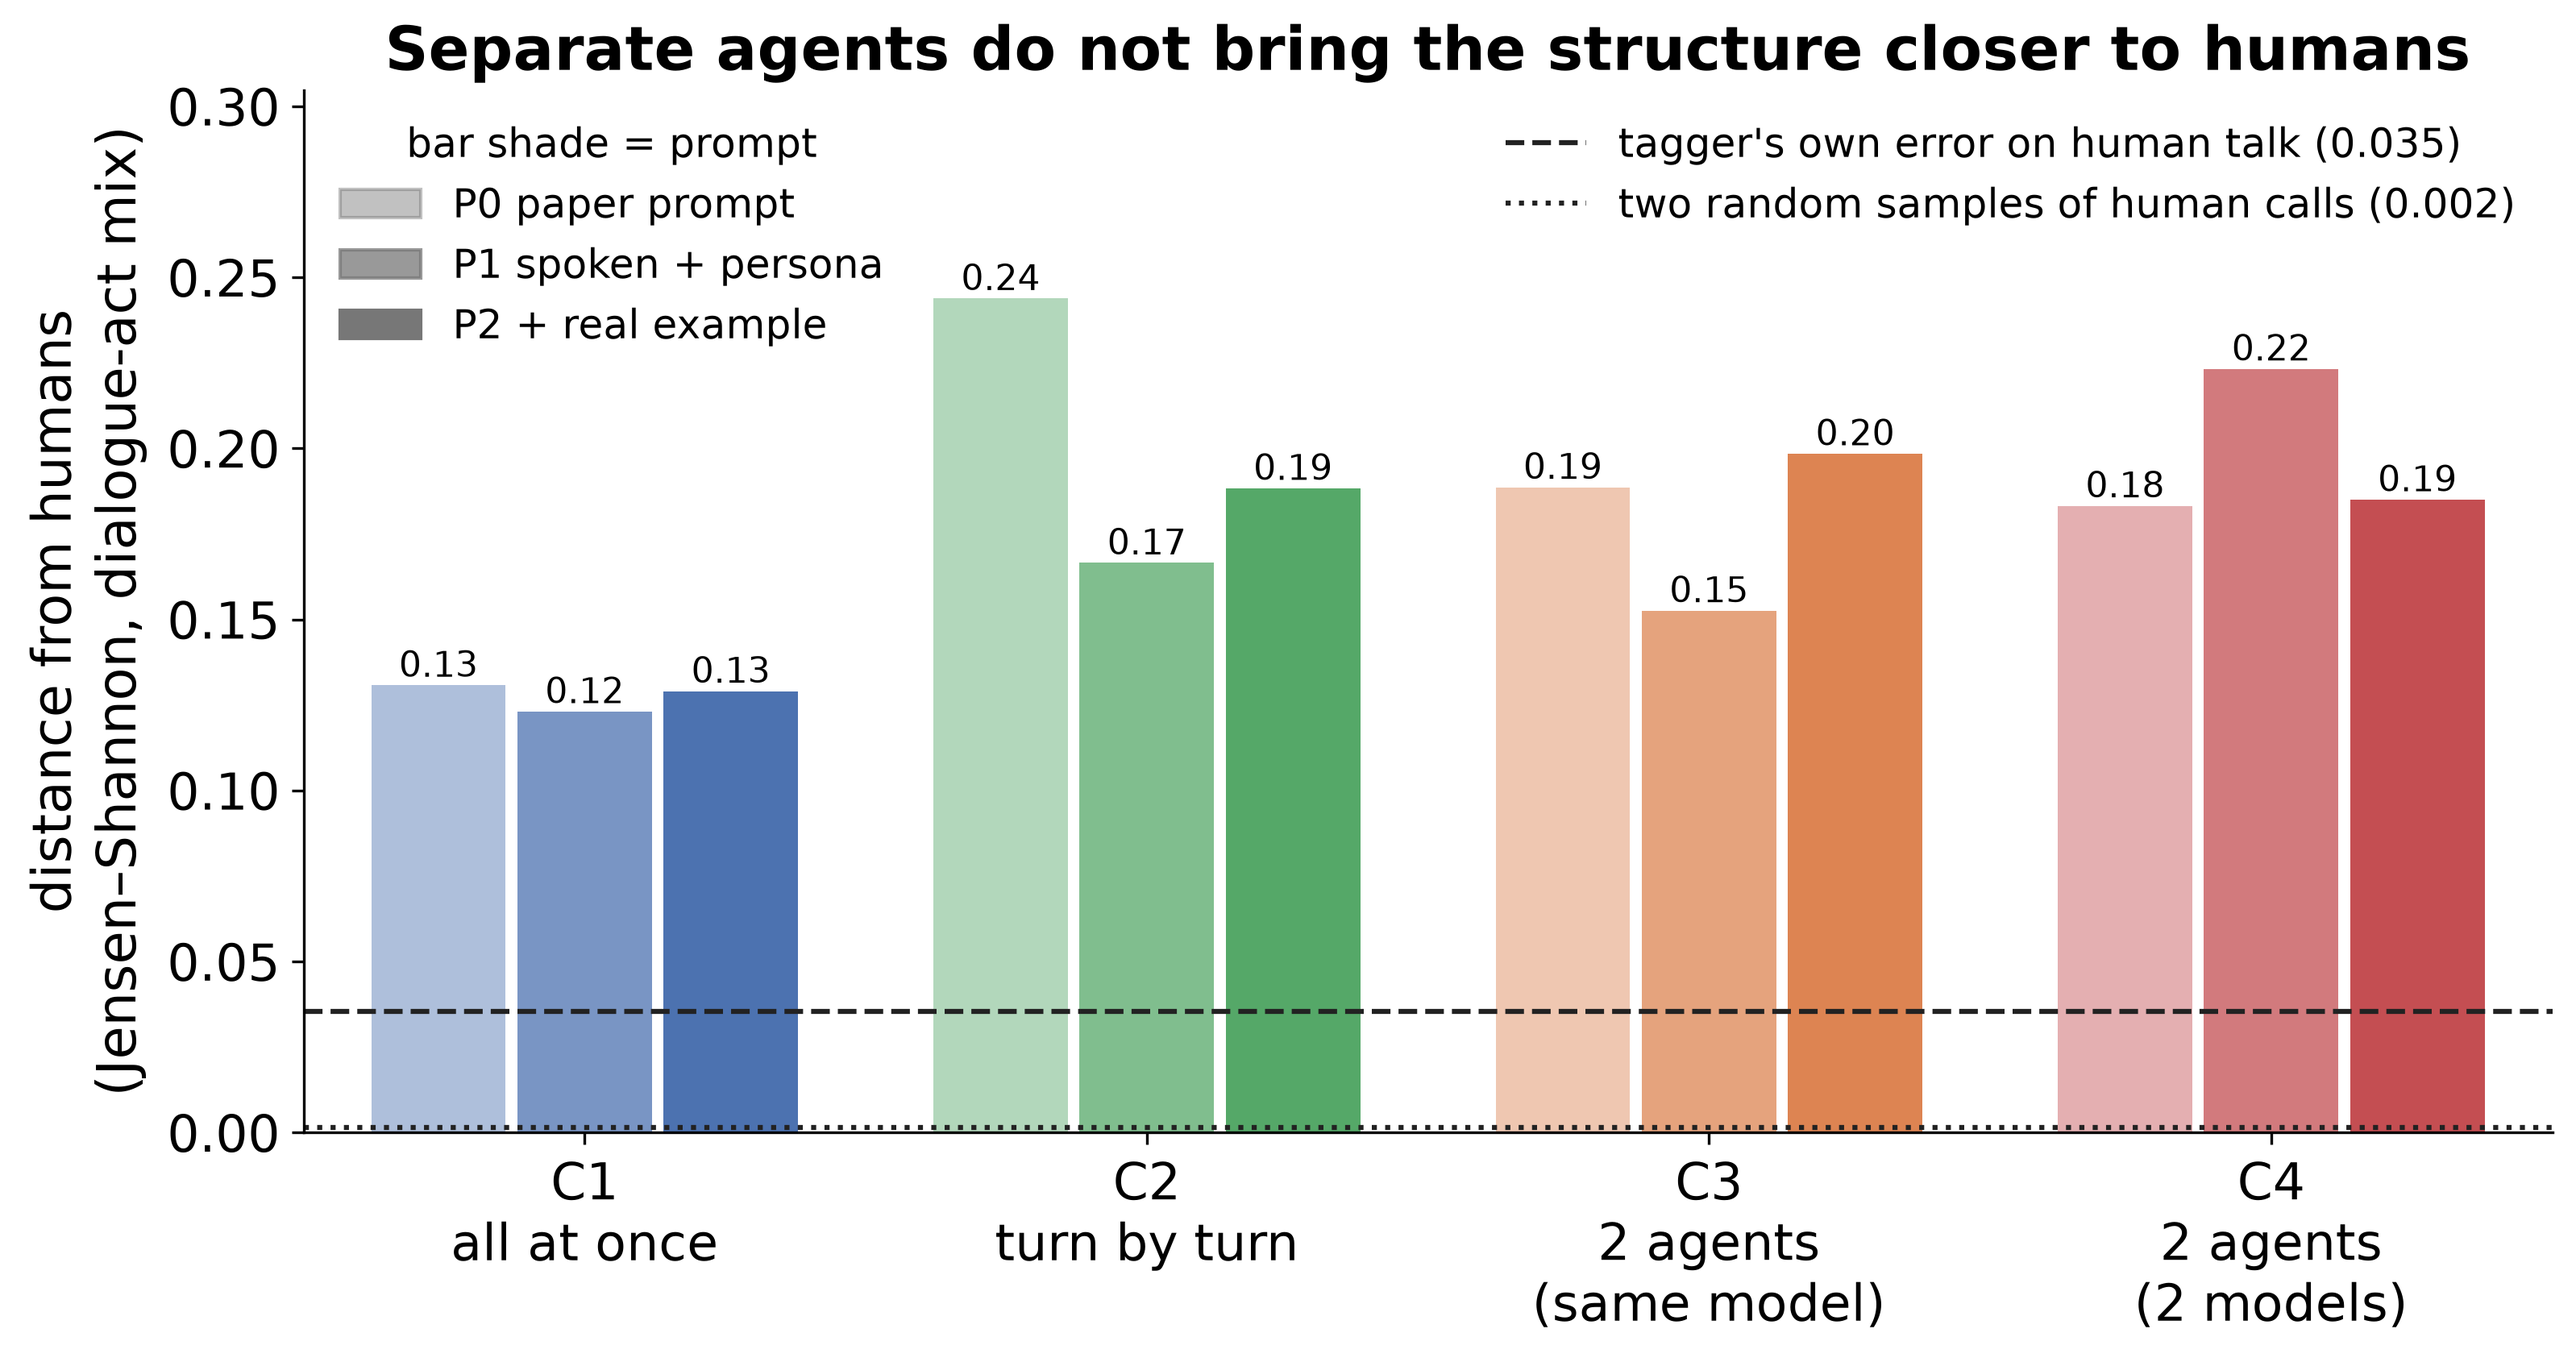
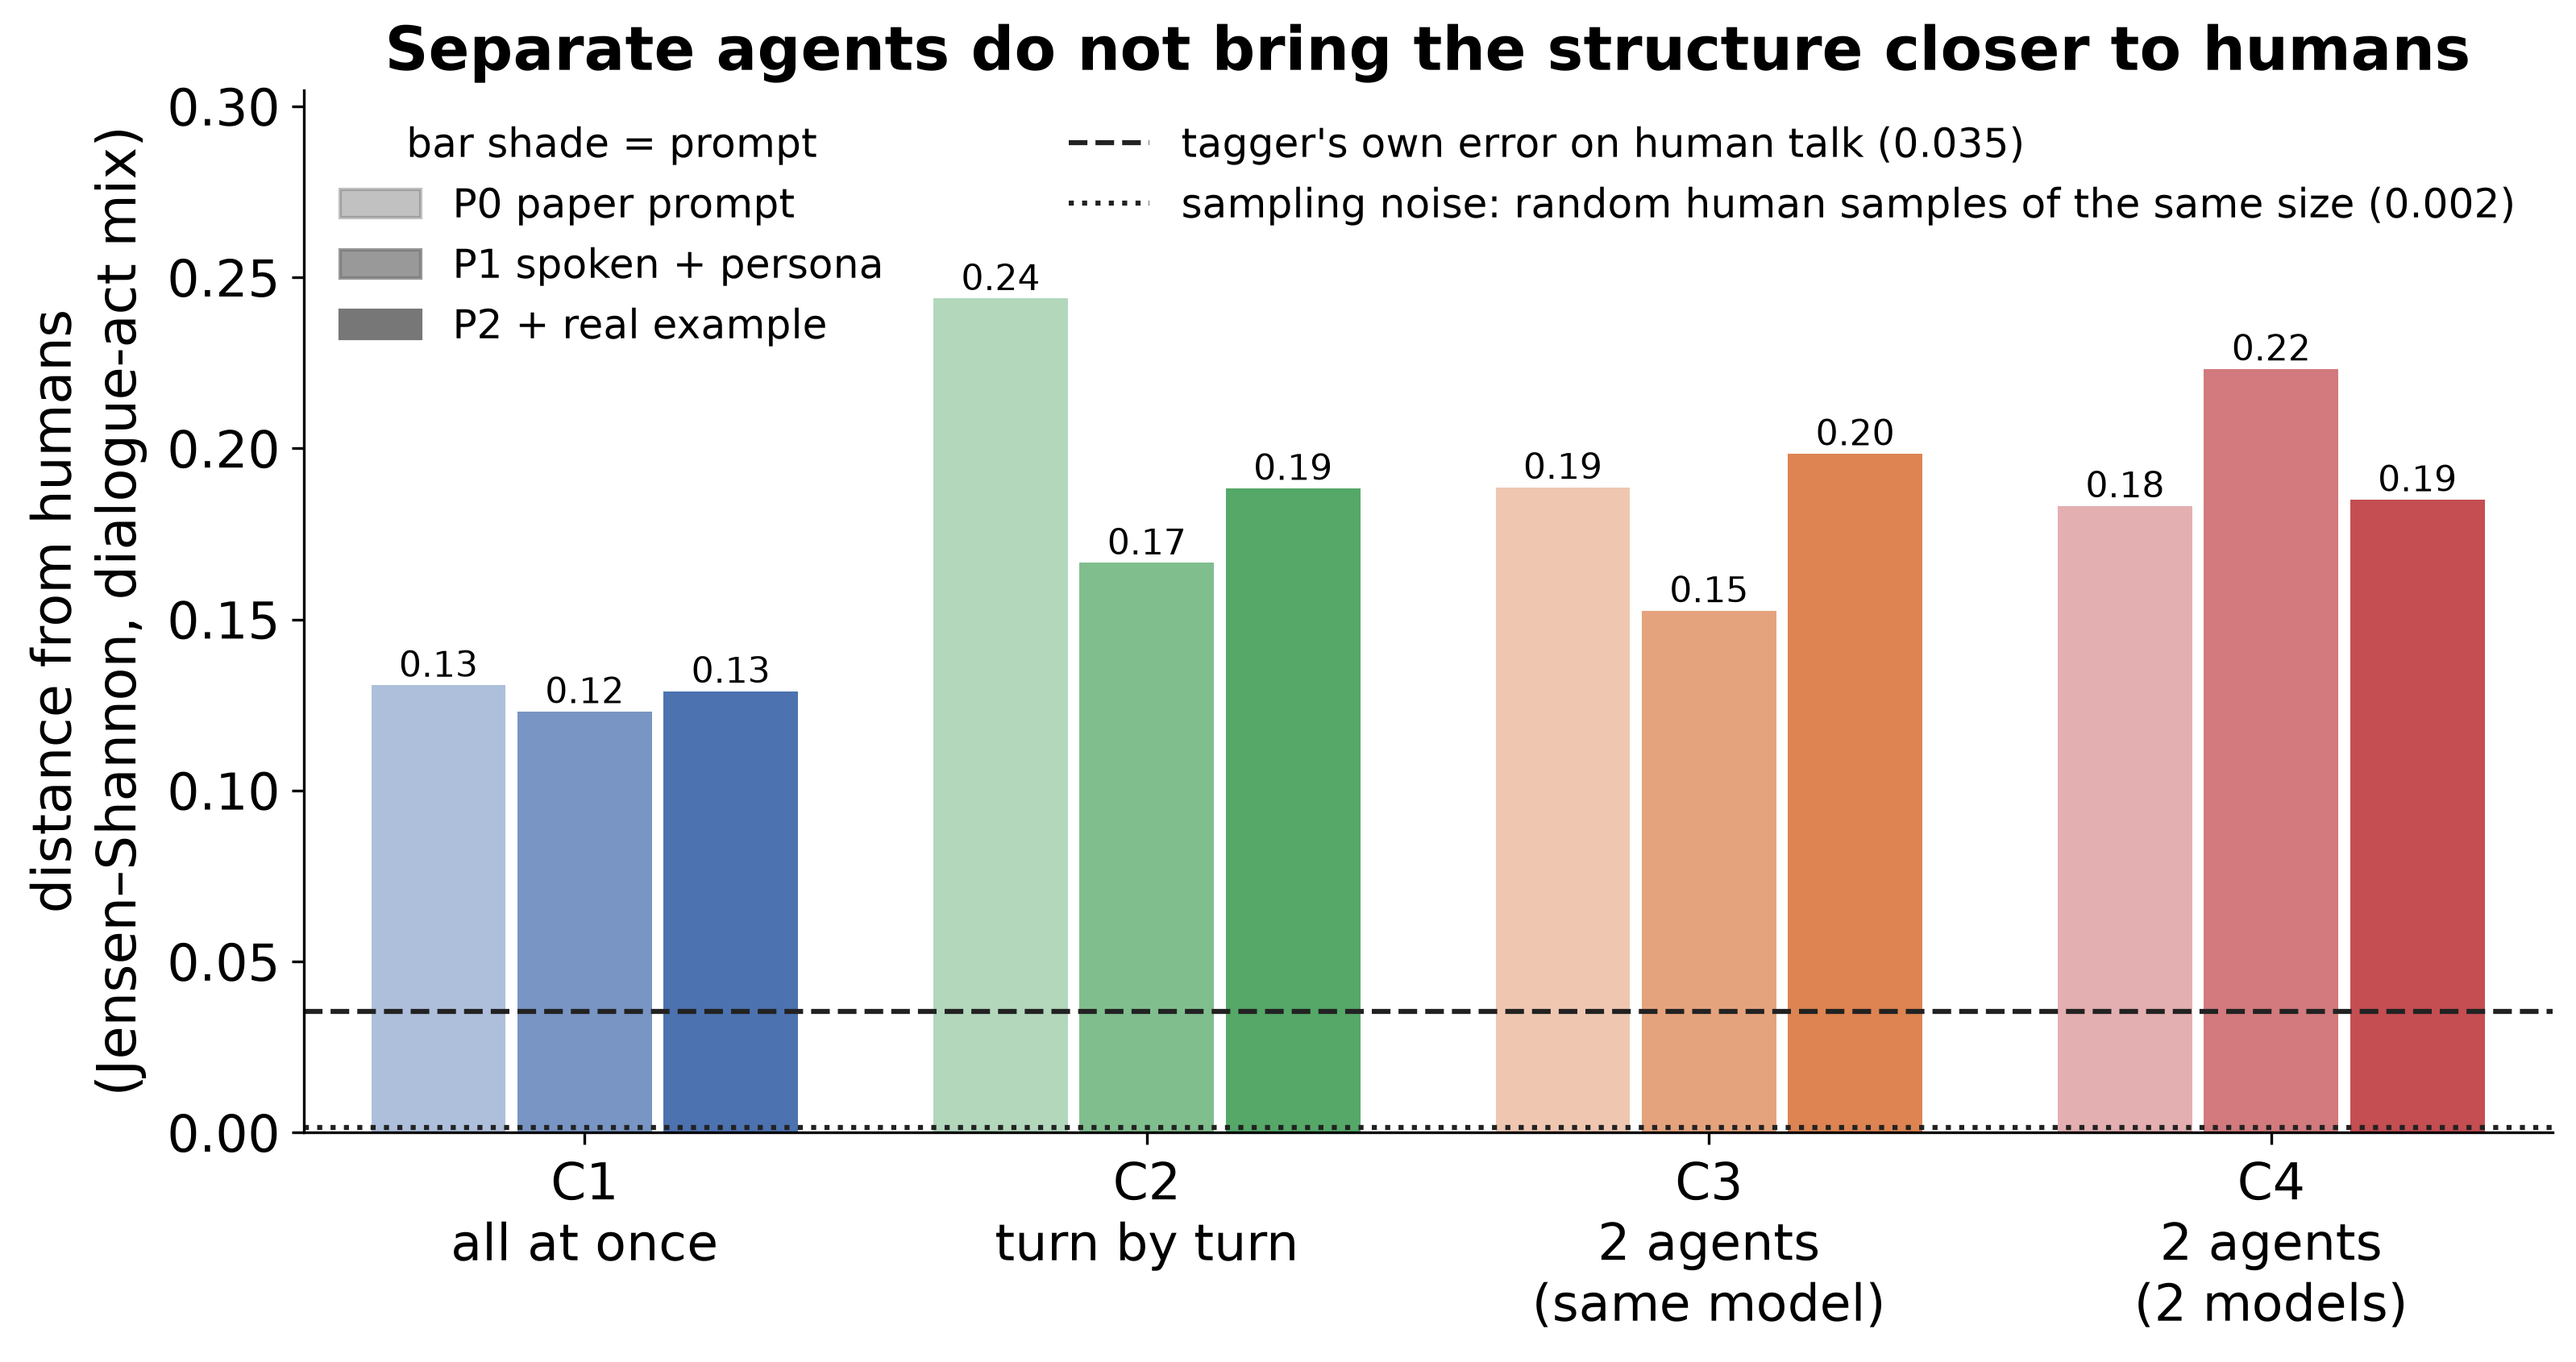
poster: correct noise-floor wording; note DA uses all 1,155 SwDA calls

Changed region(s): [[0.4646, 0.0923, 0.9603, 0.1846]]

diff --git a/analysis/poster_figures.py b/analysis/poster_figures.py
@@ -155,7 +155,7 @@ def fig3_distance() -> None:
     prompt_legend(ax)
     ax.add_artist(ax.get_legend())
     ax.legend([l1, l2], [f"tagger's own error on human talk ({calib:.3f})",
-                         f"two random samples of human calls ({floor:.3f})"],
+                         f"sampling noise: random human samples of the same size ({floor:.3f})"],
               loc="upper right", fontsize=12)
     ax.set_ylim(0, max(vals.values()) * 1.25)
     save(fig, "fig3_distance")

diff --git a/POSTER_TEXT.md b/POSTER_TEXT.md
@@ -46,7 +46,7 @@ conversations, and does any architecture bring it closer to real human talk?
 speaker · P2 = P1 + a real Switchboard excerpt as an example.
 
 **Data:** 12 conditions × 50 conversations = **600 LLM calls**, on the same 50 topics as
-**50 real Switchboard telephone calls** (human reference). Same models (Vicuna-13B v1.5,
+**50 real Switchboard telephone calls** (human reference; the dialogue-act analysis uses all 1,155 Switchboard calls). Same models (Vicuna-13B v1.5,
 Mistral-7B-Instruct, 4-bit) and the same sampling settings in every condition, so only the
 architecture and the prompt change.
 
@@ -72,7 +72,7 @@ Opinions: humans 14% of units, LLMs 21–38% (architecture averages). Questions:
 The LLM speakers take turns *presenting* rather than *listening*.
 
 ### ③ Separate agents do not make it more human; they make it less → **Figs 3, 4**
-- Closest to human structure: **C1, all at once** (distance 0.12–0.13; humans vs humans ≈ 0.002).
+- Closest to human structure: **C1, all at once** (distance 0.12–0.13; sampling noise ≈ 0.002).
 - Two-agent setups (C3, C4) are further away (0.15–0.22) and talk in long, message-like
   turns: **39–47 words** (C3) and **95–109 words** (C4) per turn, vs **14** for humans.
 - Prompting helps less than the choice of architecture: P1 is usually the best prompt, but
@@ -129,7 +129,7 @@ and languages.
 - **Fig 2.** What the talk is made of: dialogue-act mix, humans vs each architecture
   (mean over prompts).
 - **Fig 3.** Distance of each condition's dialogue-act mix from humans. Dashed: the tagger's
-  own error on human talk; dotted: two random samples of human calls.
+  own error on human talk; dotted: sampling noise (random human samples of the same size).
 - **Fig 4.** Mean words per turn (±95% CI); dashed line = humans.
 - **Fig 5.** (a) Alignment in the first vs second half of a conversation (prompt P1);
   (b) the gap from humans before (outline) and after (filled) controlling for turn length.
